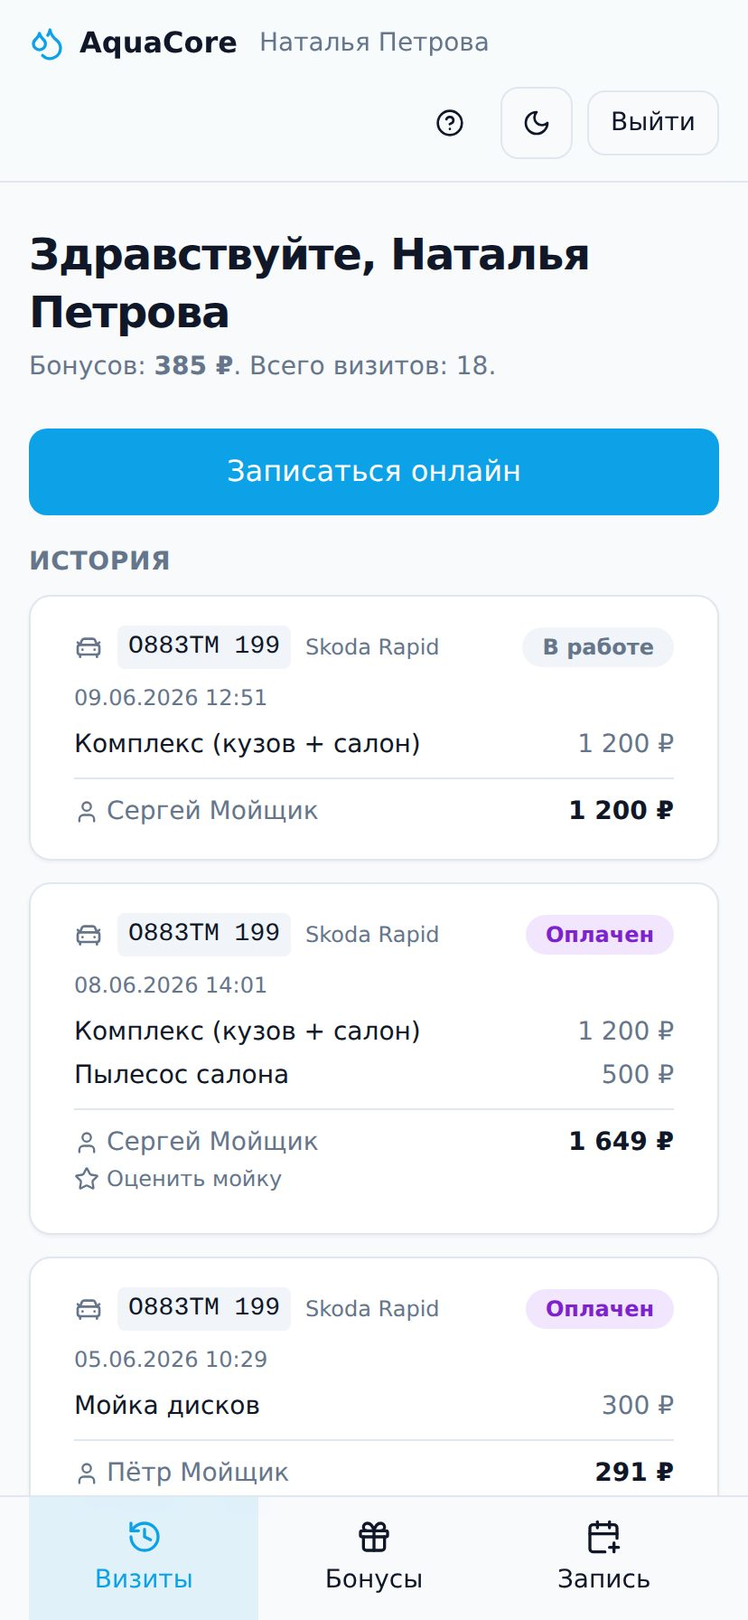
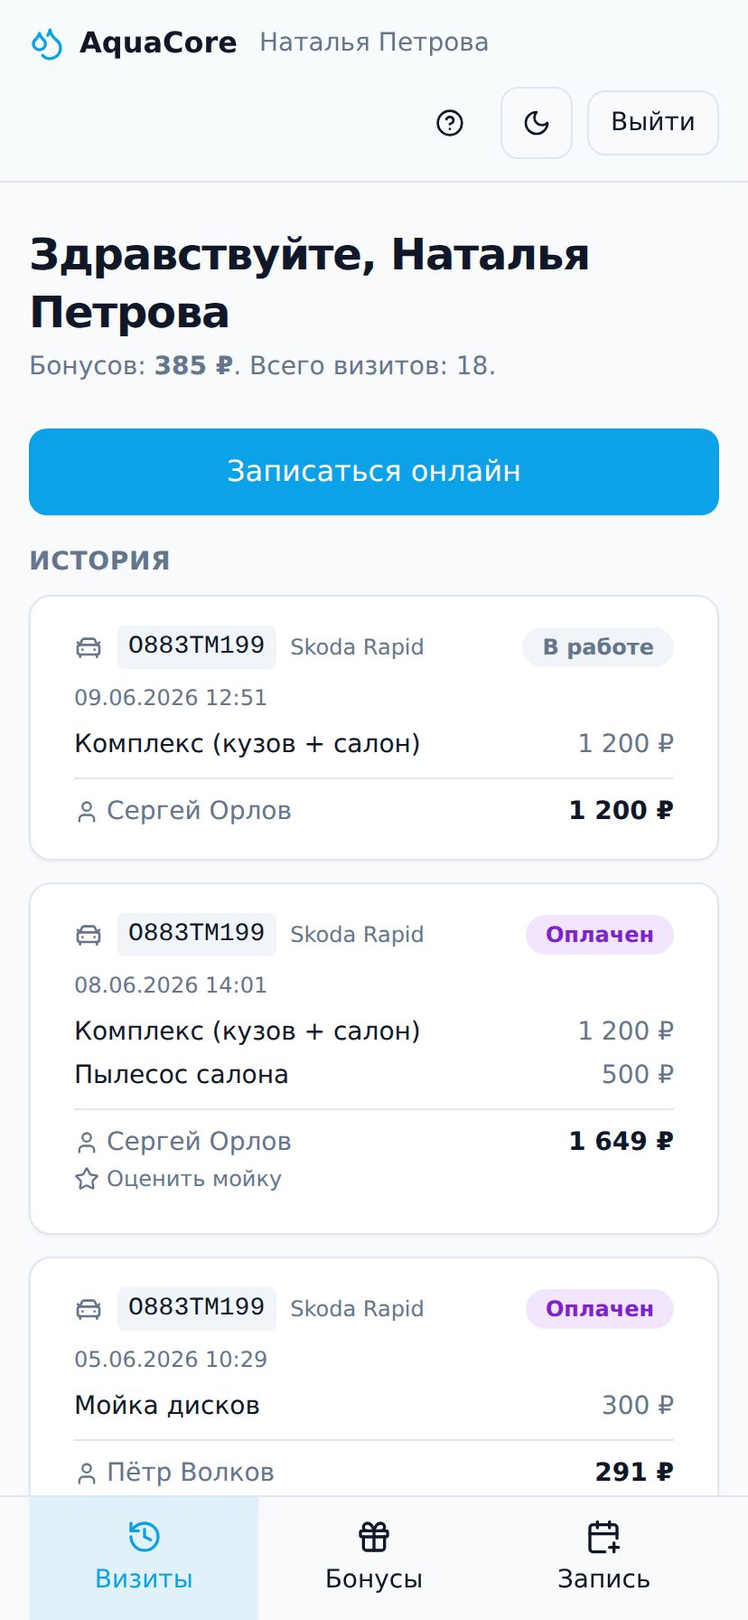
Галерея: +8 экранов (аналитика, Z-отчёт, история клиента, подозрительные, оформление визита, защита дублей, приём оплаты, архив); терминология «Исполнитель»
- Новые реальные скриншоты: аналитика за период, Z-отчёт смены, история клиента,
  подозрительные действия (с причинами), оформление визита с авто-поиском по
  номеру, защита от дублей, приём оплаты, архив визитов.
- Демо-данные: имена сотрудников без должности (Соколова/Петров/Волков/Орлов),
  чтобы не дублировать роль; госномера нормализованы (как в проде).
- Везде «Исполнитель» вместо «мойщик» (тексты сайта + фильтр галереи).

diff --git a/src/config/screens.ts b/src/config/screens.ts
@@ -6,11 +6,12 @@ export type Shot = {
   file: string;
   title: string;
   caption: string;
-  role: "Управляющий" | "Администратор" | "Мойщик" | "Клиент";
+  role: "Управляющий" | "Администратор" | "Исполнитель" | "Клиент";
   device: "desktop" | "mobile";
 };
 
 export const shots: Shot[] = [
+  // ── Управляющий ───────────────────────────────────────────────
   {
     file: "manager-dashboard.jpg",
     title: "Дашборд управляющего",
@@ -19,16 +20,51 @@ export const shots: Shot[] = [
     device: "desktop",
   },
   {
-    file: "admin-board.jpg",
-    title: "Доска в реальном времени",
-    caption: "Все машины на постах: статусы, исполнители, услуги и цены. Обновляется на ходу.",
-    role: "Администратор",
+    file: "manager-analytics-30d.jpg",
+    title: "Аналитика за период",
+    caption: "Один клик — и вся картина за 30/90 дней: динамика выручки и маржи, что приносит доход.",
+    role: "Управляющий",
+    device: "desktop",
+  },
+  {
+    file: "manager-reports.jpg",
+    title: "Отчёты и Z-отчёты",
+    caption: "Итоги смен по способам оплаты и зарплате, выгрузка визитов в Excel за любой период.",
+    role: "Управляющий",
+    device: "desktop",
+  },
+  {
+    file: "manager-zreport.jpg",
+    title: "Z-отчёт смены",
+    caption: "Касса, выручка по способам оплаты, зарплата по сотрудникам — итог смены на одном экране.",
+    role: "Управляющий",
+    device: "desktop",
+  },
+  {
+    file: "manager-report-visits.jpg",
+    title: "Отчёт по визитам смены",
+    caption: "Фото машины, госномер, услуги, оплата, скидка, бонусы и исполнитель по каждому визиту.",
+    role: "Управляющий",
+    device: "desktop",
+  },
+  {
+    file: "manager-clients.jpg",
+    title: "Клиенты и автомобили",
+    caption: "Поиск по имени, телефону и госномеру. Бонусы, сумма трат, VIP и заметки.",
+    role: "Управляющий",
+    device: "desktop",
+  },
+  {
+    file: "manager-client-card.jpg",
+    title: "История клиента",
+    caption: "Карточка клиента: все визиты, авто, бонусы, уровень лояльности, заметки и оценки.",
+    role: "Управляющий",
     device: "desktop",
   },
   {
     file: "manager-price-list.jpg",
     title: "Прайс-лист по классам авто",
-    caption: "Свои классы автомобилей, цена под каждый, массовая правка цен и чек-листы качества.",
+    caption: "Цена под каждый класс автомобиля, массовая правка цен и чек-листы качества.",
     role: "Управляющий",
     device: "desktop",
   },
@@ -47,27 +83,6 @@ export const shots: Shot[] = [
     device: "desktop",
   },
   {
-    file: "manager-report-visits.jpg",
-    title: "Отчёт по визитам смены",
-    caption: "Фото машины, госномер, услуги, оплата, скидка, бонусы и исполнитель по каждому визиту.",
-    role: "Управляющий",
-    device: "desktop",
-  },
-  {
-    file: "manager-reports.jpg",
-    title: "Отчёты и Z-отчёты",
-    caption: "Итоги смен по способам оплаты и зарплате, выгрузка визитов в Excel за любой период.",
-    role: "Управляющий",
-    device: "desktop",
-  },
-  {
-    file: "manager-clients.jpg",
-    title: "Клиенты и автомобили",
-    caption: "Поиск по имени, телефону и госномеру. История визитов, бонусы, VIP и заметки.",
-    role: "Управляющий",
-    device: "desktop",
-  },
-  {
     file: "manager-staff.jpg",
     title: "Персонал и зарплата",
     caption: "Сотрудники, PIN-входы и гибкие правила ЗП: процент с выручки, фикс за смену, надбавки.",
@@ -77,8 +92,45 @@ export const shots: Shot[] = [
   {
     file: "manager-audit.jpg",
     title: "Журнал изменений и аудит",
-    caption: "Неизменяемая история всех действий и фильтр подозрительных операций.",
+    caption: "Неизменяемая история всех действий: кто, что и когда сделал. Изменить задним числом нельзя.",
     role: "Управляющий",
+    device: "desktop",
+  },
+  {
+    file: "manager-suspicious.jpg",
+    title: "Подозрительные действия",
+    caption: "Система сама подсвечивает риски: крупные скидки, расхождения кассы, возвраты, оплаты без исполнителя.",
+    role: "Управляющий",
+    device: "desktop",
+  },
+
+  // ── Администратор ─────────────────────────────────────────────
+  {
+    file: "admin-board.jpg",
+    title: "Доска в реальном времени",
+    caption: "Все машины на постах: статусы, исполнители, услуги и цены. Обновляется на ходу.",
+    role: "Администратор",
+    device: "desktop",
+  },
+  {
+    file: "admin-new-visit.jpg",
+    title: "Как оформить визит",
+    caption: "Ввёл госномер — система сама нашла клиента и авто. Отметил услуги и принял в работу.",
+    role: "Администратор",
+    device: "desktop",
+  },
+  {
+    file: "admin-duplicate.jpg",
+    title: "Защита от дублей",
+    caption: "Если по номеру уже был визит сегодня — система предупредит до создания второго.",
+    role: "Администратор",
+    device: "desktop",
+  },
+  {
+    file: "admin-payment.jpg",
+    title: "Приём оплаты",
+    caption: "Один способ или смешанная оплата (наличные, карта, СБП, бонусы) — итог сходится с чеком.",
+    role: "Администратор",
     device: "desktop",
   },
   {
@@ -89,12 +141,23 @@ export const shots: Shot[] = [
     device: "desktop",
   },
   {
+    file: "admin-archive.jpg",
+    title: "Архив визитов",
+    caption: "Все завершённые визиты смены под рукой: быстрый поиск и возврат к любой записи.",
+    role: "Администратор",
+    device: "desktop",
+  },
+
+  // ── Исполнитель ───────────────────────────────────────────────
+  {
     file: "washer-queue.jpg",
-    title: "Кабинет мойщика (PWA)",
+    title: "Кабинет исполнителя (PWA)",
     caption: "Очередь задач с таймером, чек-листом и заработком в реальном времени.",
-    role: "Мойщик",
+    role: "Исполнитель",
     device: "mobile",
   },
+
+  // ── Клиент ────────────────────────────────────────────────────
   {
     file: "client-visits.jpg",
     title: "Клиентский кабинет",

diff --git a/src/config/content.ts b/src/config/content.ts
@@ -36,7 +36,7 @@ export const keyFeatures: Feature[] = [
   {
     icon: "board",
     title: "Доска мойки в реальном времени",
-    text: "Все машины на постах перед глазами: статусы от «Новый» до «Оплачено», назначение мойщиков, услуги и цены меняются на ходу. Обновление каждые несколько секунд.",
+    text: "Все машины на постах перед глазами: статусы от «Новый» до «Оплачено», назначение исполнителей, услуги и цены меняются на ходу. Обновление каждые несколько секунд.",
   },
   {
     icon: "scan",
@@ -61,7 +61,7 @@ export const keyFeatures: Feature[] = [
   {
     icon: "wallet",
     title: "Зарплата сотрудников",
-    text: "Гибкие правила: процент с мойки или фиксированная ставка, надбавки по дням недели и периодам. Мойщик видит свой заработок в реальном времени и замотивирован.",
+    text: "Гибкие правила: процент с мойки или фиксированная ставка, надбавки по дням недели и периодам. Исполнитель видит свой заработок в реальном времени и замотивирован.",
   },
   {
     icon: "chart",
@@ -71,7 +71,7 @@ export const keyFeatures: Feature[] = [
   {
     icon: "shield",
     title: "Контроль и аудит",
-    text: "Неизменяемый журнал всех действий и более 15 признаков подозрительной активности: крупные скидки, расхождения по кассе, возвраты, оплаты без мойщика.",
+    text: "Неизменяемый журнал всех действий и более 15 признаков подозрительной активности: крупные скидки, расхождения по кассе, возвраты, оплаты без исполнителя.",
   },
   {
     icon: "bell",
@@ -91,7 +91,7 @@ export const keyFeatures: Feature[] = [
   {
     icon: "layers",
     title: "Роли и кабинеты",
-    text: "Отдельные интерфейсы для менеджера, администратора, мойщика и клиента. Вход по email или по PIN, кабинет мойщика работает как мобильное приложение.",
+    text: "Отдельные интерфейсы для менеджера, администратора, исполнителя и клиента. Вход по email или по PIN, кабинет исполнителя работает как мобильное приложение.",
   },
 ];
 
@@ -115,7 +115,7 @@ export const benefits: Feature[] = [
   {
     icon: "wallet",
     title: "Мотивация персонала",
-    text: "Понятная зарплата от результата и видимый заработок в реальном времени повышают выработку мойщиков.",
+    text: "Понятная зарплата от результата и видимый заработок в реальном времени повышают выработку исполнителей.",
   },
   {
     icon: "chart",
@@ -143,7 +143,7 @@ export const steps = [
   {
     n: "03",
     title: "Обучение",
-    text: "Показываем администраторам и мойщикам, как работать. Интерфейс простой — осваивается за день.",
+    text: "Показываем администраторам и исполнителям, как работать. Интерфейс простой — осваивается за день.",
   },
   {
     n: "04",
@@ -183,7 +183,7 @@ export const faq = [
   },
   {
     q: "Сложно ли осваивать систему?",
-    a: "Нет. Интерфейс на русском языке и разделён по ролям: у мойщика — простая крупная кнопка задач, у администратора — наглядная доска, у руководителя — аналитика. Обучение занимает день.",
+    a: "Нет. Интерфейс на русском языке и разделён по ролям: у исполнителя — простая крупная кнопка задач, у администратора — наглядная доска, у руководителя — аналитика. Обучение занимает день.",
   },
   {
     q: "Мои данные в безопасности?",

diff --git a/src/app/vozmozhnosti/page.tsx b/src/app/vozmozhnosti/page.tsx
@@ -24,7 +24,7 @@ const groups: Group[] = [
     title: "Операционная доска и приём машин",
     items: [
       { t: "Доска в реальном времени", d: "Все машины на постах со статусами: новый, в работе, пауза, готово, оплачено. Автообновление." },
-      { t: "Назначение мойщиков", d: "Один или несколько мойщиков на визит с делением выручки по процентам." },
+      { t: "Назначение исполнителей", d: "Один или несколько исполнителей на визит с делением выручки по процентам." },
       { t: "Услуги и цены на ходу", d: "Добавляйте и убирайте услуги прямо во время мойки, цена пересчитывается автоматически." },
       { t: "Чек-листы качества", d: "Контроль выполнения этапов по услуге — ничего не забыто." },
       { t: "Фото автомобиля", d: "Фиксация состояния машины на въезде и фото до/после при необходимости." },
@@ -81,8 +81,8 @@ const groups: Group[] = [
     items: [
       { t: "Гибкие правила", d: "Процент с мойки или фиксированная ставка за день." },
       { t: "Надбавки и периоды", d: "Условия по дням недели и диапазонам дат (например, сезонные)." },
-      { t: "Заработок онлайн", d: "Мойщик видит свой текущий заработок в реальном времени." },
-      { t: "Чаевые", d: "Учитываются отдельно и полностью идут мойщику." },
+      { t: "Заработок онлайн", d: "Исполнитель видит свой текущий заработок в реальном времени." },
+      { t: "Чаевые", d: "Учитываются отдельно и полностью идут исполнителю." },
     ],
   },
   {
@@ -121,7 +121,7 @@ const groups: Group[] = [
     icon: "phone",
     title: "Клиентский кабинет",
     items: [
-      { t: "История визитов", d: "Даты, услуги, суммы, мойщик и фото автомобиля." },
+      { t: "История визитов", d: "Даты, услуги, суммы, исполнитель и фото автомобиля." },
       { t: "Бонусный счёт", d: "Текущий баланс, срок действия и история начислений/списаний." },
       { t: "Оценки и отзывы", d: "Клиент ставит оценку и оставляет комментарий после визита." },
       { t: "Онлайн-запись", d: "Запись на удобное время с выбором услуги и автомобиля." },

diff --git a/src/app/page.tsx b/src/app/page.tsx
@@ -394,7 +394,7 @@ function Roles() {
   const roles = [
     { icon: "chart" as const, t: "Менеджер", d: "Аналитика, цены, сотрудники, лояльность и настройки — вход по email." },
     { icon: "board" as const, t: "Администратор", d: "Доска мойки, приём и оплата, смена и касса — быстрый вход по PIN." },
-    { icon: "car" as const, t: "Мойщик", d: "Простая очередь задач с крупными кнопками и заработком в реальном времени." },
+    { icon: "car" as const, t: "Исполнитель", d: "Простая очередь задач с крупными кнопками и заработком в реальном времени." },
     { icon: "phone" as const, t: "Клиент", d: "Личный кабинет: история, бонусы, оценки и онлайн-запись." },
   ];
   return (
@@ -430,7 +430,7 @@ function Roles() {
 function Security() {
   const items = [
     { icon: "shield" as const, t: "Неизменяемый аудит", d: "Кто, что и когда сделал — фиксируется навсегда. Изменить задним числом нельзя." },
-    { icon: "bolt" as const, t: "Детектор злоупотреблений", d: "15+ признаков: крупные скидки, расхождения по кассе, возвраты, оплаты без мойщика." },
+    { icon: "bolt" as const, t: "Детектор злоупотреблений", d: "15+ признаков: крупные скидки, расхождения по кассе, возвраты, оплаты без исполнителя." },
     { icon: "cash" as const, t: "Сверка кассы", d: "Система знает ожидаемый остаток. Любое расхождение — на виду, с комментарием." },
     { icon: "lock" as const, t: "Защита данных", d: "«Мягкое» удаление с восстановлением 30 дней и изоляция данных каждой мойки." },
   ];

diff --git a/src/app/tarify/page.tsx b/src/app/tarify/page.tsx
@@ -24,7 +24,7 @@ const compare: { feature: string; basic: boolean; pro: boolean }[] = [
   { feature: "Отчёты, аналитика, экспорт в Excel", basic: true, pro: true },
   { feature: "Аудит и контроль злоупотреблений", basic: true, pro: true },
   { feature: "Распознавание госномеров", basic: true, pro: true },
-  { feature: "Кабинеты менеджера, админа, мойщика", basic: true, pro: true },
+  { feature: "Кабинеты менеджера, админа, исполнителя", basic: true, pro: true },
   { feature: "Модуль «Клиентский кабинет» (история, бонусы)", basic: false, pro: true },
   { feature: "Онлайн-запись клиентов", basic: false, pro: true },
   { feature: "Модуль «SMS и Telegram-уведомления»", basic: false, pro: true },

diff --git a/src/components/Screenshots.tsx b/src/components/Screenshots.tsx
@@ -7,7 +7,7 @@ import { Icons } from "./Icons";
 const base = process.env.NEXT_PUBLIC_BASE_PATH ?? "";
 const src = (file: string) => `${base}/screens/${file}`;
 
-const ROLES = ["Все", "Управляющий", "Администратор", "Мойщик", "Клиент"] as const;
+const ROLES = ["Все", "Управляющий", "Администратор", "Исполнитель", "Клиент"] as const;
 
 export function Screenshots() {
   const [role, setRole] = useState<(typeof ROLES)[number]>("Все");

diff --git a/src/components/Pricing.tsx b/src/components/Pricing.tsx
@@ -13,7 +13,7 @@ const basicIncludes = [
   "Дашборд, аналитика и выгрузка в Excel",
   "Аудит действий и контроль злоупотреблений",
   "Распознавание госномеров",
-  "Роли: менеджер, администратор, мойщик",
+  "Роли: менеджер, администратор, исполнитель",
 ];
 
 const proAdds = [
